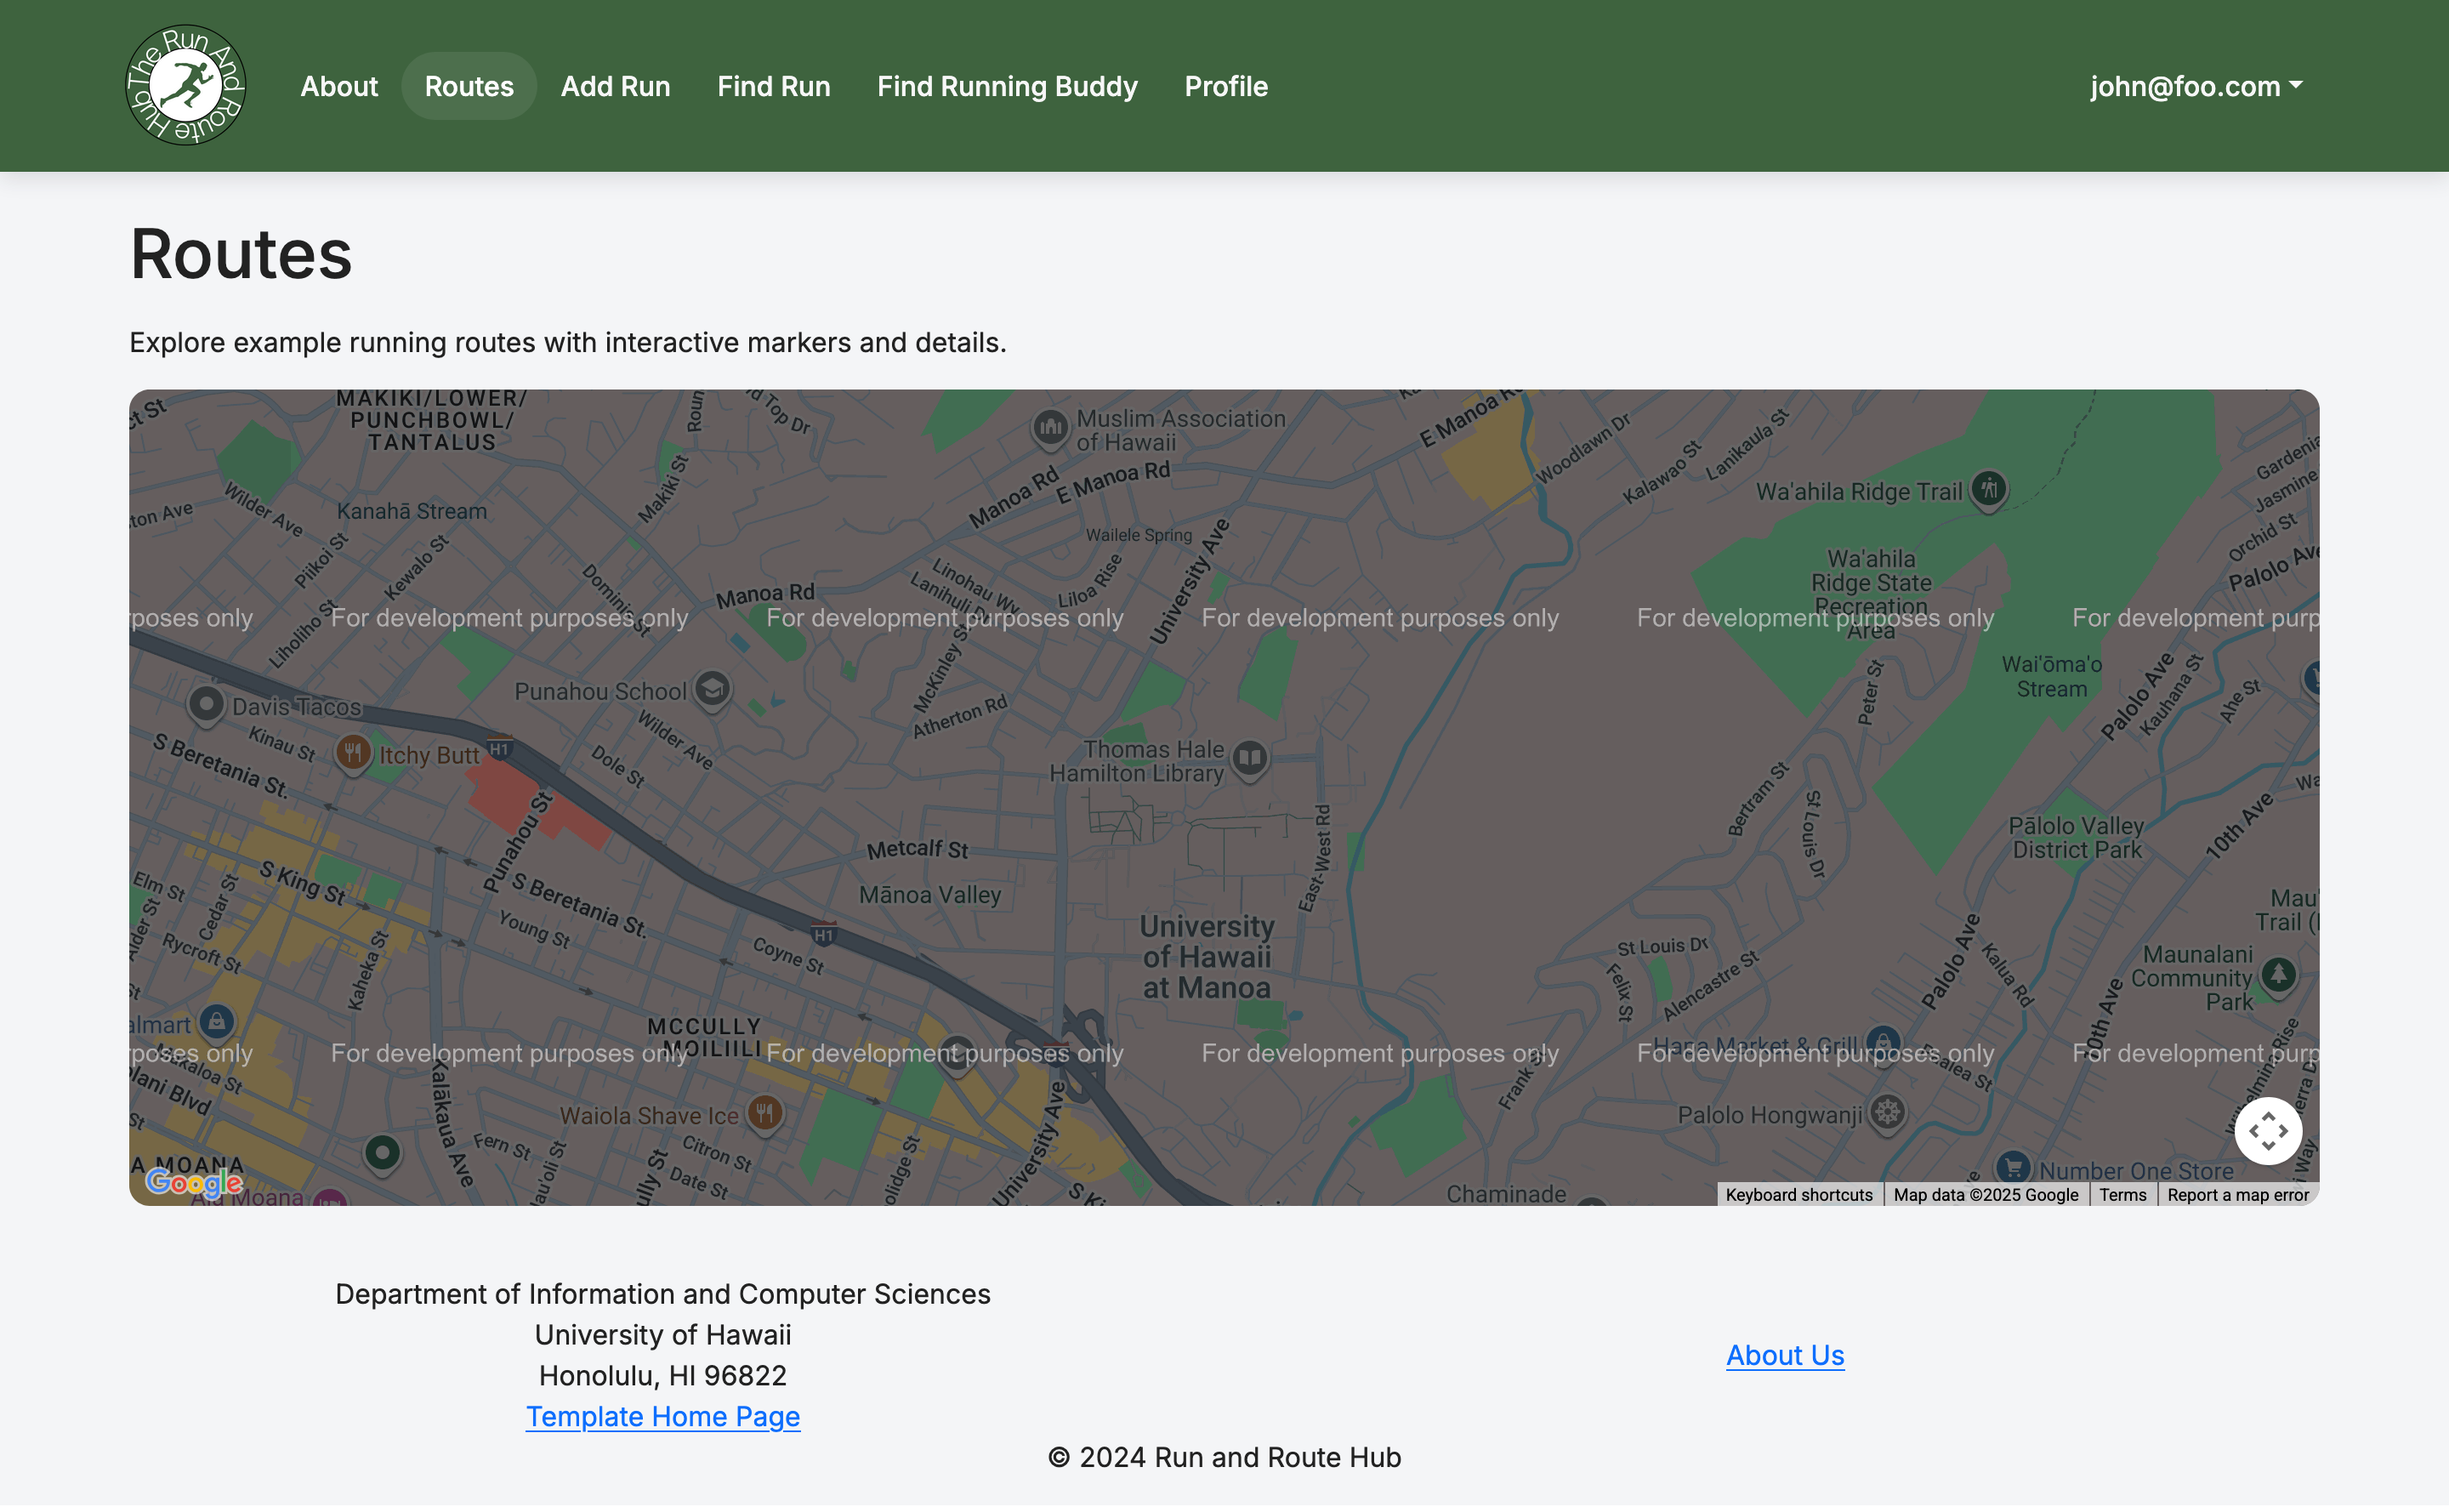
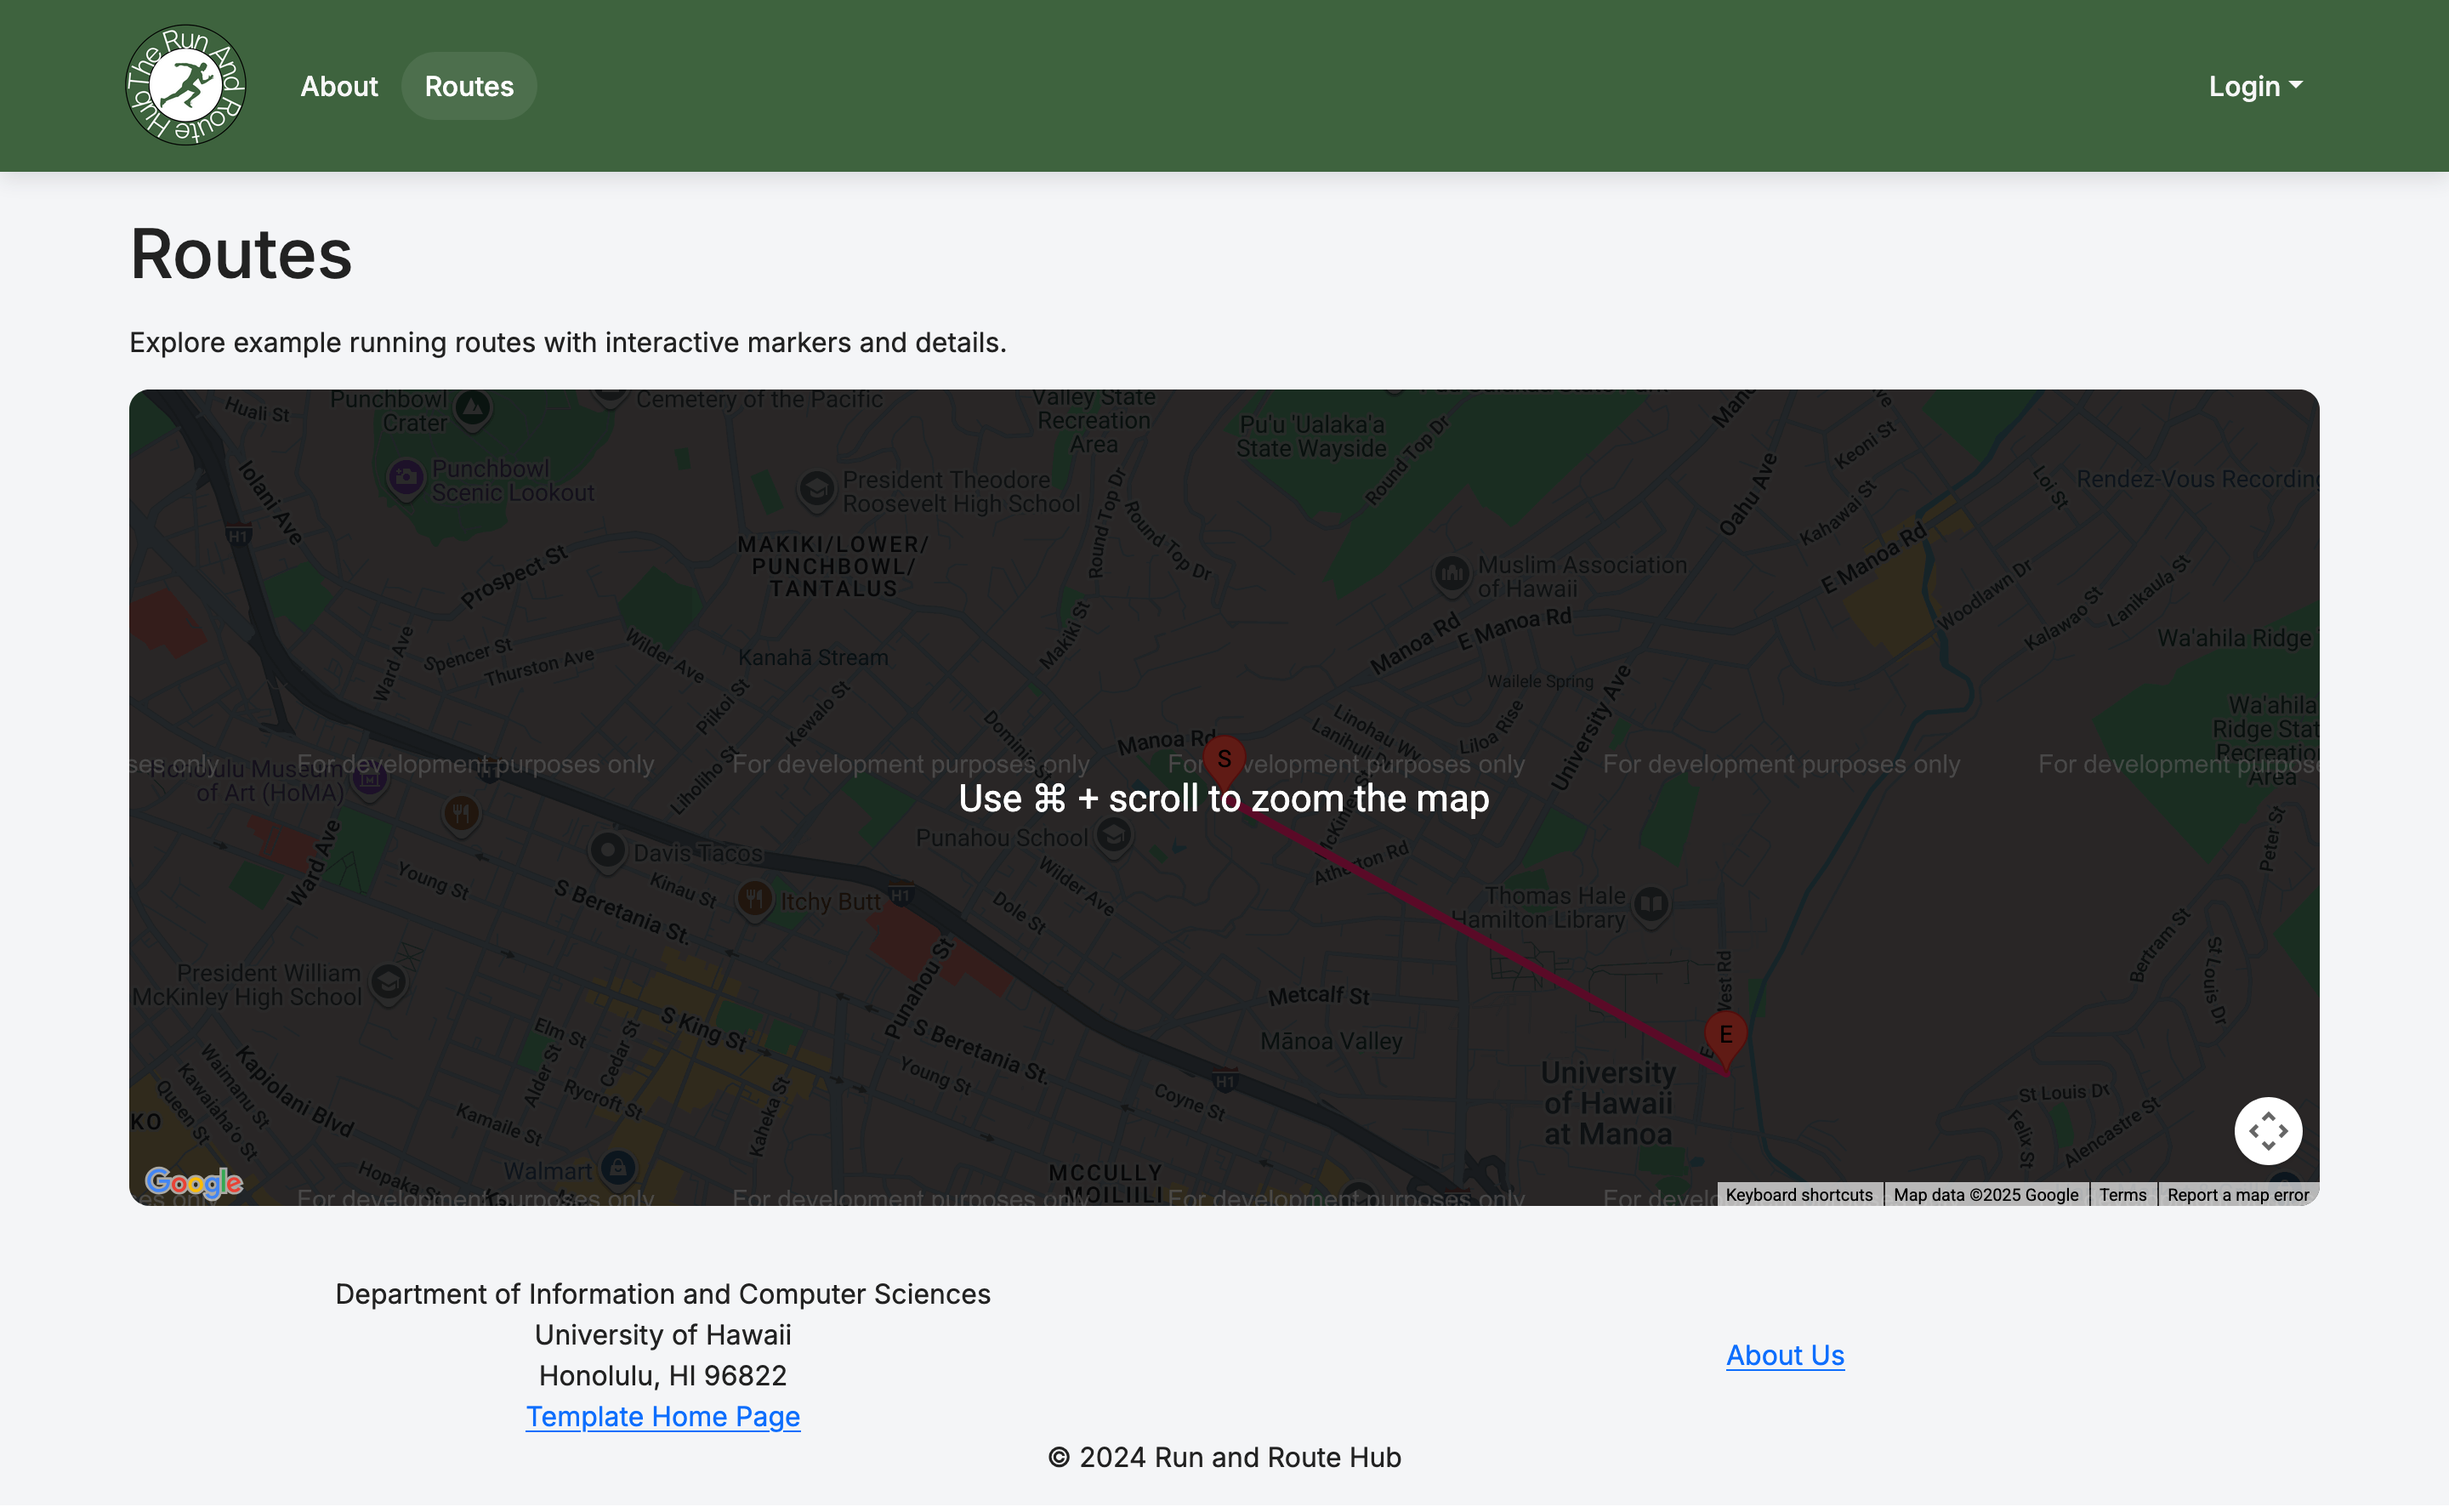
updated index.md

diff --git a/index.md b/index.md
@@ -32,6 +32,10 @@ Project has been deployed to [Vercel](https://run-and-route-hub.vercel.app/).
 <img src="images/M2/M2LandingPage.png">
 This is our landing page, featuring our purpose in the center with multiple text blocks beneath it going into detail about the different features we have.
 
+## About
+<img src="images/M2/M2About.png">
+For a more in depth dive into the intentions, goals, and purpose of this project.
+
 ## Routes
 <img src ="images/M2/M2Routes.png">
 This page shows some off some of the routes on a map with there start and end points labelled.
